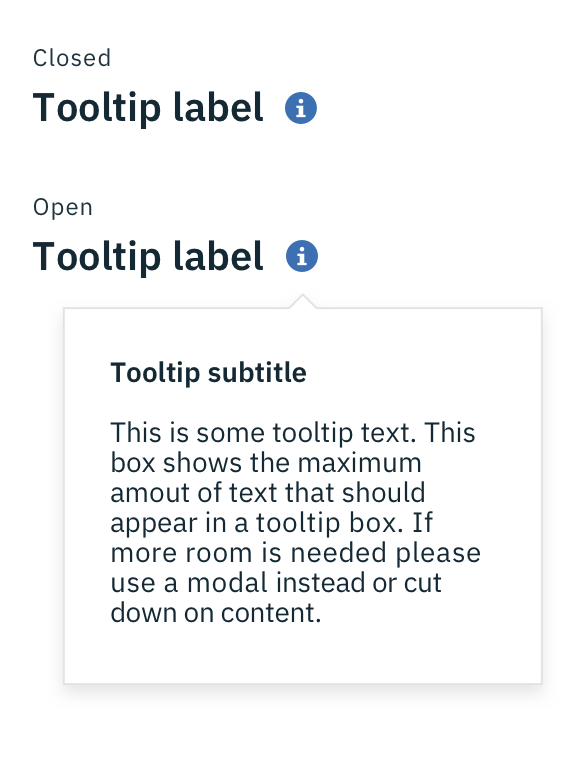
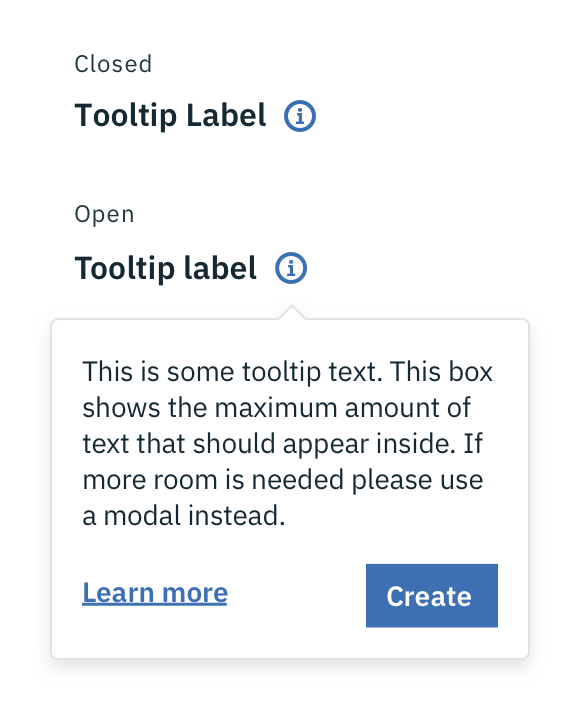
updated tooltip style and usage content & images

diff --git a/src/content/components/tooltip/style.md b/src/content/components/tooltip/style.md
@@ -1,57 +1,59 @@
 ## Color
-
-| Attribute              | SCSS      | HEX       |
+| COLOR              | SCSS      | HEX       |
 |--------------------|-----------|-----------|
 | Icon               | $brand-01 | #3d70b2   |
-| Icon: hover        | $brand-02 | #5596e6   |
-| Text               | $text-01  | #152935   |
-| Tooltip background | $ui-01    | #ffffff   |
-| Tooltip border     | $ui-04    | #8897a2   |
+| Interactive text    | $text-01  | #152935   |
+| Interactive background | $ui-01    | #ffffff   |
+| Interactive border     | $ui-03    | #dfe3e6   |
+| Definition & Icon text    | $ui-01  | #ffffff   |
+| Definition & Icon background | $inverse-02   | #272d33   |
 
----
-***
->  
+
 ![Closed and open states for a Tooltip](images/tooltip-style-1.png)
-
-_Example of closed and open states for a Tooltip_
+_Example of open and closed states for a Tooltip._
 
 ## Typography
-
 Tooltip labels and text should be set in sentence case.
 
-| Property | Font-size (px/rem)     | Font-weight  | Type style |
-|----------|-----------------|--------------|---|
-| Label   | 16 / 1     | Semi-Bold / 600   | Epsilon  |
-| Subtitle    | 14 / 0.875 | Semi-Bold / 600   | Zeta  |
-| Text     | 14 / 0.875 | Normal / 400 | - |
+| PROPERTY | FONT-SIZE (px/rem)      | FONT-WEIGHT  |
+|----------|-----------------|--------------|
+| Label    | 16 / 1 | Semi-Bold / 600   |
+| Interactive text     | 14 / 0.875 | Normal / 400 |
+| Definition & Icon text     | 12 / 0.75 | Normal / 400 |
 
 ## Layer
-
-| Layer      | Elevation     | Box-shadow      |
+| LAYER      | ELEVATION     | BOX-SHADOW      |
 |------------|----------|----------|
 | Overlay    | 8        | `0 4px 8px 0 rgba(0,0,0,0.10);`  |
 
+
 ## Structure
-
-| Property                | px  | rem   |
+| PROPERTY                | PX  | REM   |
 |-------------------------|-----|-------|
-| Tooltip: width          | 240 | 15    |
-| Tooltip: height         | Varies based on content | - |
-| Icon: width & height    | 16  | 1     |
-| Spacing: label & icon   | 10  | 0.625 |
-| Spacing: icon & Tooltip | 10  | 0.625 |
-| Spacing: internal       | 24  | 1.5   |
+| Tooltip: height         | Varies based on content | |
+| Interactive: width      | 240 | 15    |
+| Definition: width       | 176 | 11    |
+| Icon: width             | Varies based on content | |
+| Tooltip icon: width & height | 16  | 1     |
+| Spacing: label & icon   | 8  | 0.5 |
+| Spacing: icon & Interactive aTooltip | 8  | 0.5 |
+| Spacing: dotted line & Definition Tooltip | 4  | 0.25 |
+| Spacing: icon & Icon Tooltip | 2  | 0.125 |
+| Interactive: internal spacing | 16  | 1   |
+| Definition: internal spacing | 8  | 0.5   |
+| Icon: internal spacing | 4  | 0.25   |
 
----
-***
->  
-![Structure and spacing measurements for a tooltip](images/tooltip-style-2.png)
+![Structure and spacing measurements for an Interactive Tooltip](images/tooltip-style-2.png)
+_Structure and spacing measurements for an Interactive Tooltip | px / rem_
 
-_Structure and spacing measurements for a Tooltip | px / rem_
+![Structure and spacing measurements for a Definition Tooltip](images/tooltip-style-3.png)
+_Structure and spacing measurements for a Definition Tooltip | px / rem_
+
+![Structure and spacing measurements for an Icon Tooltip](images/tooltip-style-4.png)
+_Structure and spacing measurements for an Icon Tooltip | px / rem_
 
 ### Placement
+Tooltips should be placed below the Tooltip icon unless it is within the height of the Tooltip box plus 16px / 1rem of the bottom of the page. In that instance, the Tooltip should appear above the icon or defined word. On mobile, Tooltips can only appear below the Tooltip icon.
 
-Tooltips should always be placed below the Tooltip icon unless it is within the height of the Tooltip box plus 16px / 1em of the bottom of the page. In that instance, the Tooltip should appear to the right of the Tooltip icon. On mobile, Tooltips can only appear below the Tooltip icon.
-
-![Placement examples for a Tooltip](images/tooltip-style-3.png)
+![Placement examples for a Tooltip](images/tooltip-style-5.png)
 _Placement examples for a Tooltip_

diff --git a/src/content/components/tooltip/usage.md b/src/content/components/tooltip/usage.md
@@ -1,12 +1,24 @@
-## Content
+### Icon Tooltip
+An Icon Tooltip is used to clarify the action or name of an interactive icon button. The Tooltip content should only contain one to two words. Icon Tooltips appear on `hover` and `focus`.
 
-### Length
+![example of an icon tooltip](images/icon-tooltip-usage-2.png)
 
-Due to its disruptive nature, Tooltip content should be kept to an absolute minimum. For larger sets of content or data, consider using a [Passive Modal.](/components/modal) The Modal will be triggered when the user clicks the information icon, as opposed to the regular `:hover` interaction of a generic Tooltip. 
+_Definition tooltip used to define a Form label._
 
-![Tool tip on click](images/tooltip-usage-1.gif)
-_Passive Modal triggered on click_
 
-### Interactive elements
 
-The primary purpose of a Tooltip is to provide additional help or context to an item. Therefore, they should contain read-only text. The use of interactive elements, such as Buttons or Links, is discouraged.
+### Definition Tooltip
+The primary purpose of a Definition Tooltip is to provide additional help or define an item or term. Therefore, they should contain read-only text that is kept to a minimum. The use of interactive elements, such as Buttons or Links, is discouraged. Definition Tooltips appear on `hover` and `focus`.
+
+![example of an interactive tooltip](images/tooltip-usage-2.png)
+
+_Definition tooltip used to define a Form label._
+
+
+
+### Interactive Tooltip
+Interactive Tooltips can contain text and other interactive elements such as a Button or a Link. They appear on mouse `click` and are persistent until intentionally dismissed by clicking outside of the tooltip.
+
+![example of an interactive tooltip](images/tooltip-usage-3.png)
+
+_Example of an Interactive tooltip._
